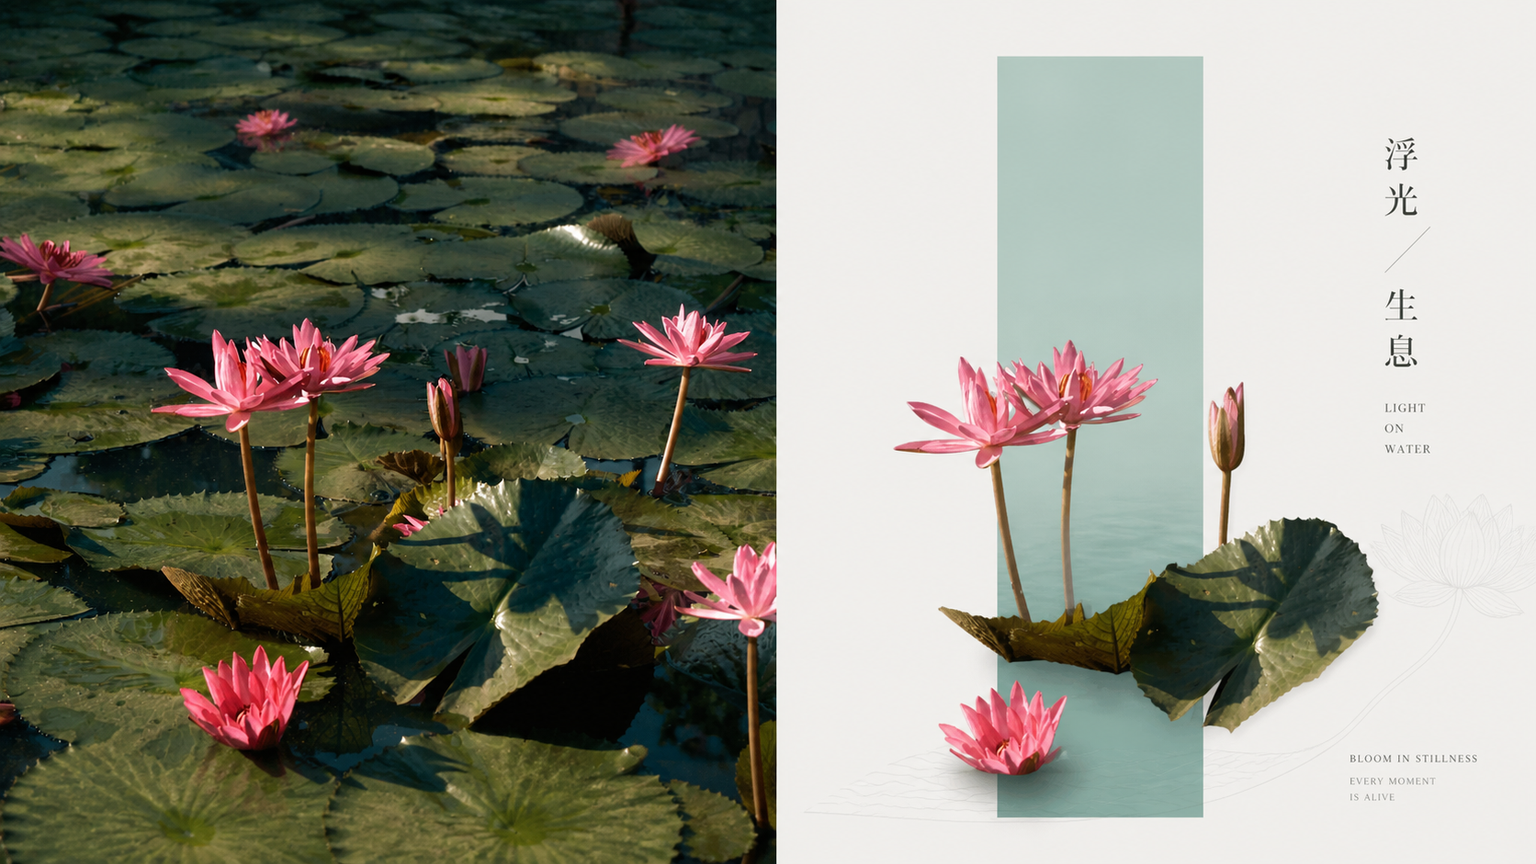
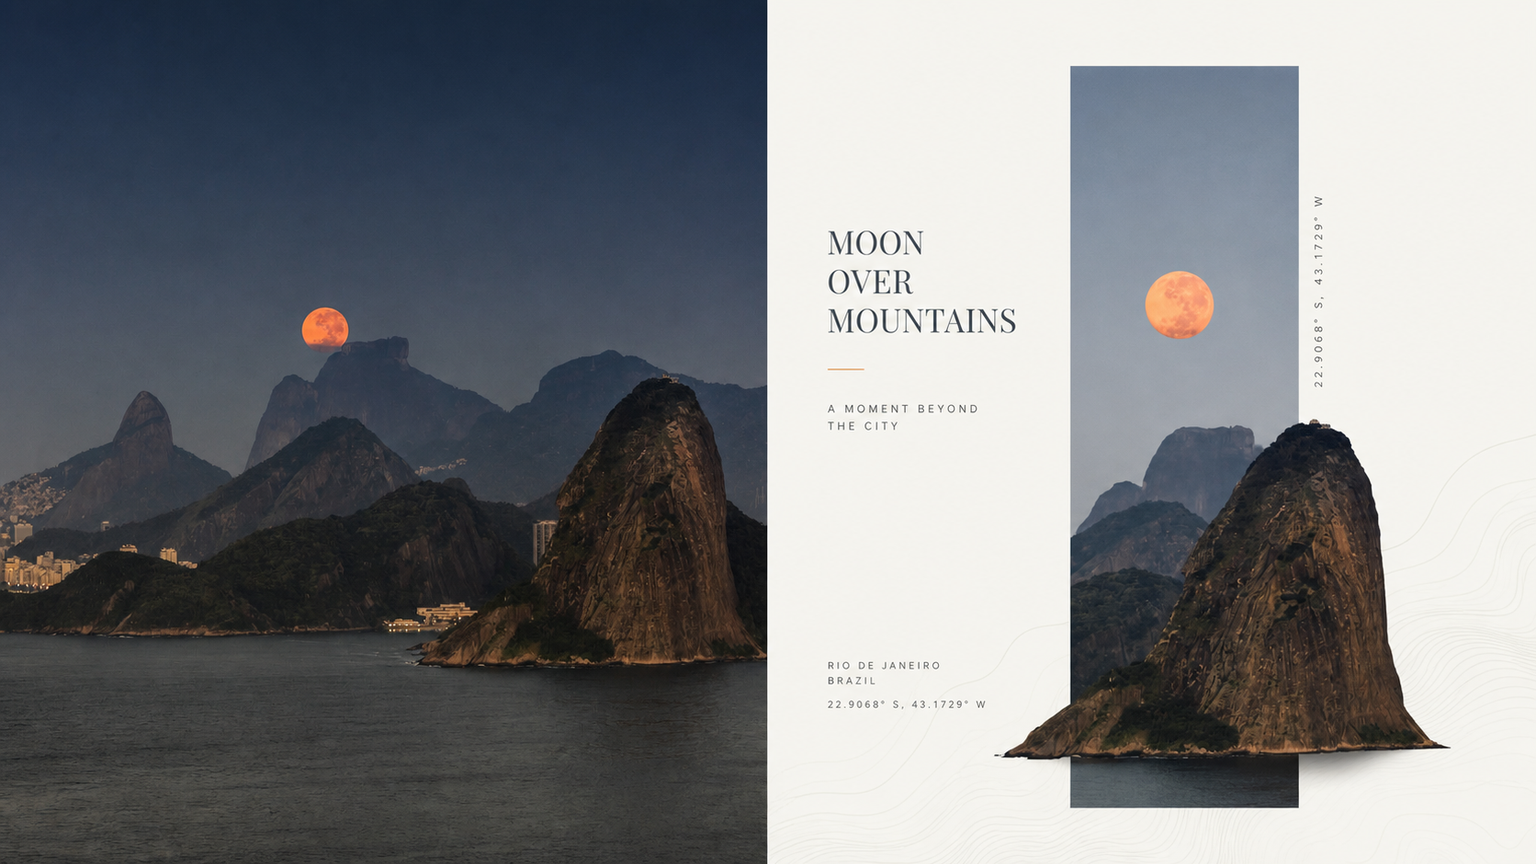
docs: add four 16:9 left-right samples

diff --git a/README.en.md b/README.en.md
@@ -16,6 +16,28 @@
 
 </div>
 
+<!-- xxd-human-intro:start -->
+## The short, honest version
+
+Ever had a photo you loved turn into generic “AI design”? The subject survives, but the relationship, mood, and tiny details that made the photo yours disappear.
+
+That frustration is why I made **Panel 024**. It does not press a template onto your image. It first works out what must not be lost, then translates it into **Let a real source-bound subject pass through one pale geometric emotion window**.
+
+### Understand it in 30 seconds
+
+- **Give it:** one photo, a folder of images, or a rough idea.
+- **It does:** preserves recognizable people, objects, actions, and relationships, then redesigns them in this Panel’s own visual language.
+- **You get:** ready-to-use PNGs—comparison layouts, design-only artwork, multiple ratios, or a wallpaper set.
+
+### The easiest way to try it
+
+You do not need to study every option first. Give your Agent an image and say:
+
+> Use XXD Panel 024 on this image and recommend the best layout and size first.
+
+Check the samples below if you want to feel out the aesthetic. If you are ready, jump to [Get started](#get-started). The full modes, sizes, and parameters are tucked into an expandable reference for later.
+<!-- xxd-human-intro:end -->
+
 ## Samples · From X
 
 <table>
@@ -29,6 +51,11 @@
   </tr>
   <tr>
     <td colspan="2"><img src="./assets/examples/sample-05.png" alt="XXD Panel 024 Sample 5"></td>
+  </tr>
+  <tr>
+    <td width="33%"><img src="./assets/examples/sample-06.png" alt="XXD Panel 024 Sample 6"></td>
+    <td width="33%"><img src="./assets/examples/sample-07.png" alt="XXD Panel 024 Sample 7"></td>
+    <td width="33%"><img src="./assets/examples/sample-08.png" alt="XXD Panel 024 Sample 8"></td>
   </tr>
 </table>
 
@@ -86,6 +113,9 @@ If an unrelated photograph could replace the source without materially changing 
 - **At most one support layer:** a faint cultural pattern, topographic line, ripple, light contour, or abstract linear mark stays subordinate.
 - **Source-derived commercial colour:** pale window + true subject colour + sparse neutral type; no fluorescent saturation, muddy grey, heavy darkness, or global filter.
 - **Premium editorial type:** one short title and sparse subtitle/place/state/microtext align with the window, crossing direction, or whitespace.
+
+<details>
+<summary><strong>Full capabilities and parameters (open when needed)</strong></summary>
 
 ## The original brief is authoritative
 
@@ -228,6 +258,8 @@ GPT Image 2 is the default first choice. It keeps this project's established wor
 Seedance 5.0 Pro, Nano Banana Pro (Gemini Image Pro), Nano Banana 2 (Gemini Image Flash), or another compatible bitmap model may also be used when it is actually available through the current tools or configured routes and can satisfy source fidelity, whole-canvas ratio, target-language text, and linked-wallpaper multi-reference requirements. An alternative changes only the generation route; it must not change modes, canvas, copy, locale, wallpaper relationship, or the complete-canvas-first strategy.
 
 If no suitable route is available, the Skill asks the user to enable an image-generation tool or provide an API key. User-provided credentials may be used for the current task without being echoed, displayed, logged, or exposed. They are not persisted, and provider, account, billing, or global route configuration is not modified, unless the user explicitly requests that configuration change.
+
+</details>
 
 ## Get started
 

diff --git a/assets/examples/README.md b/assets/examples/README.md
@@ -11,5 +11,8 @@
   - `sample-03.jpg`
   - `sample-04.jpg`
   - `sample-05.png` — generated 16:9 left-right English-copy sample from the Chenxiang poster batch
+  - `sample-06.png` — generated 16:9 left-right English-copy sample from the Chenxiang poster batch
+  - `sample-07.png` — generated 16:9 left-right English-copy sample from the Chenxiang poster batch
+  - `sample-08.png` — generated 16:9 left-right English-copy sample from the Chenxiang poster batch
 
 The repository READMEs display these local copies; the original four samples link back to their X post, while sample-05 is a newly generated batch sample. The samples demonstrate the style's aesthetic motive and range only; they never become generation references, source material, fixed subjects, palettes, composition, copy, or default canvas sizes.
